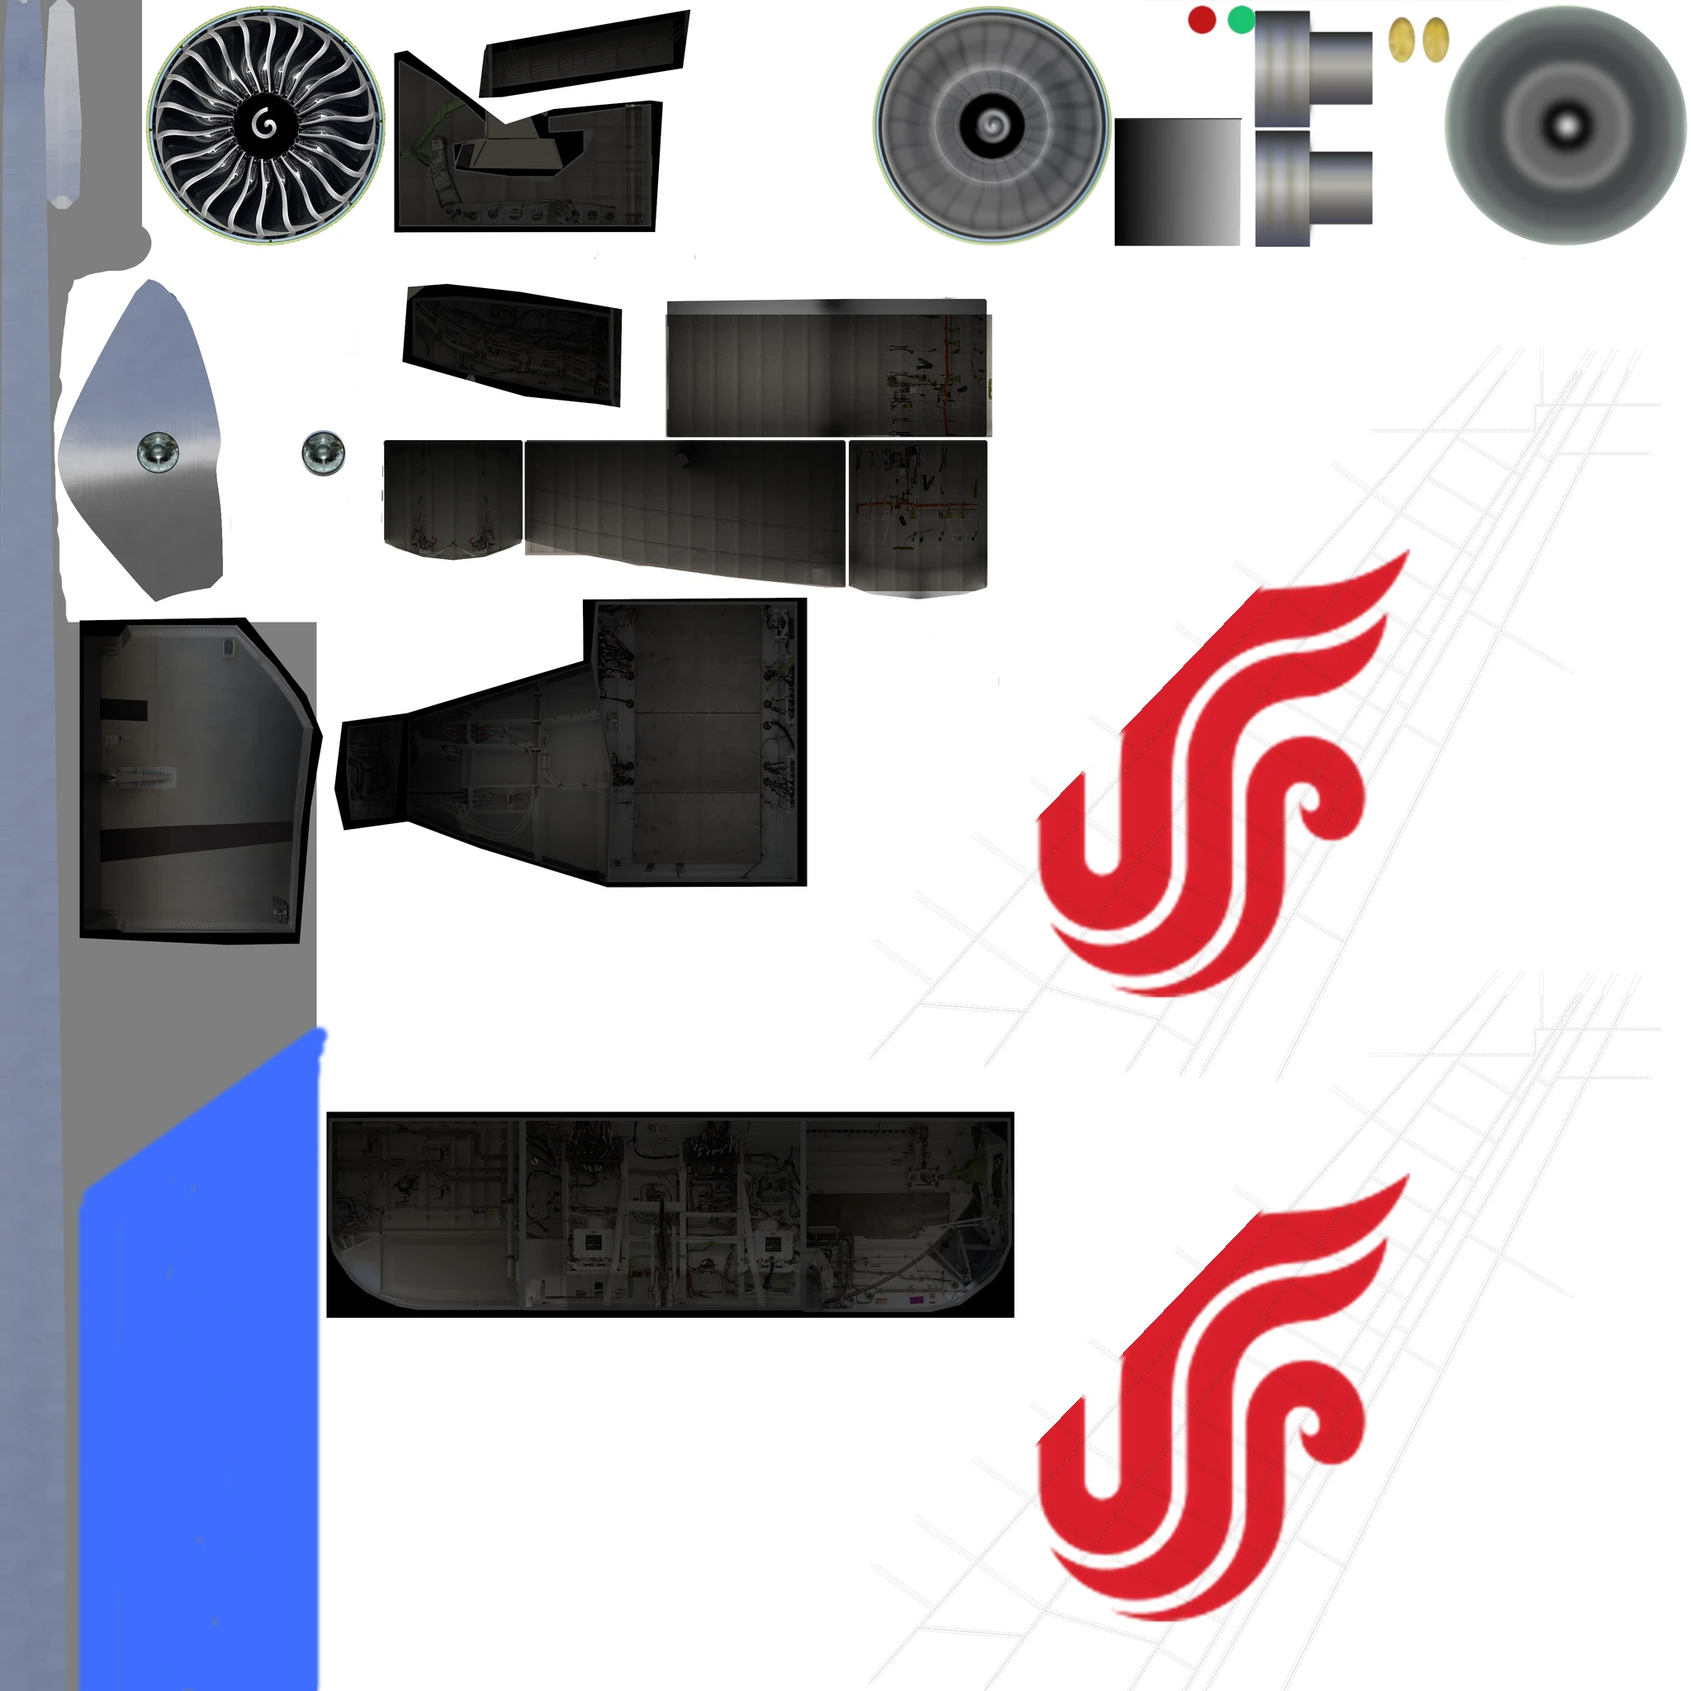
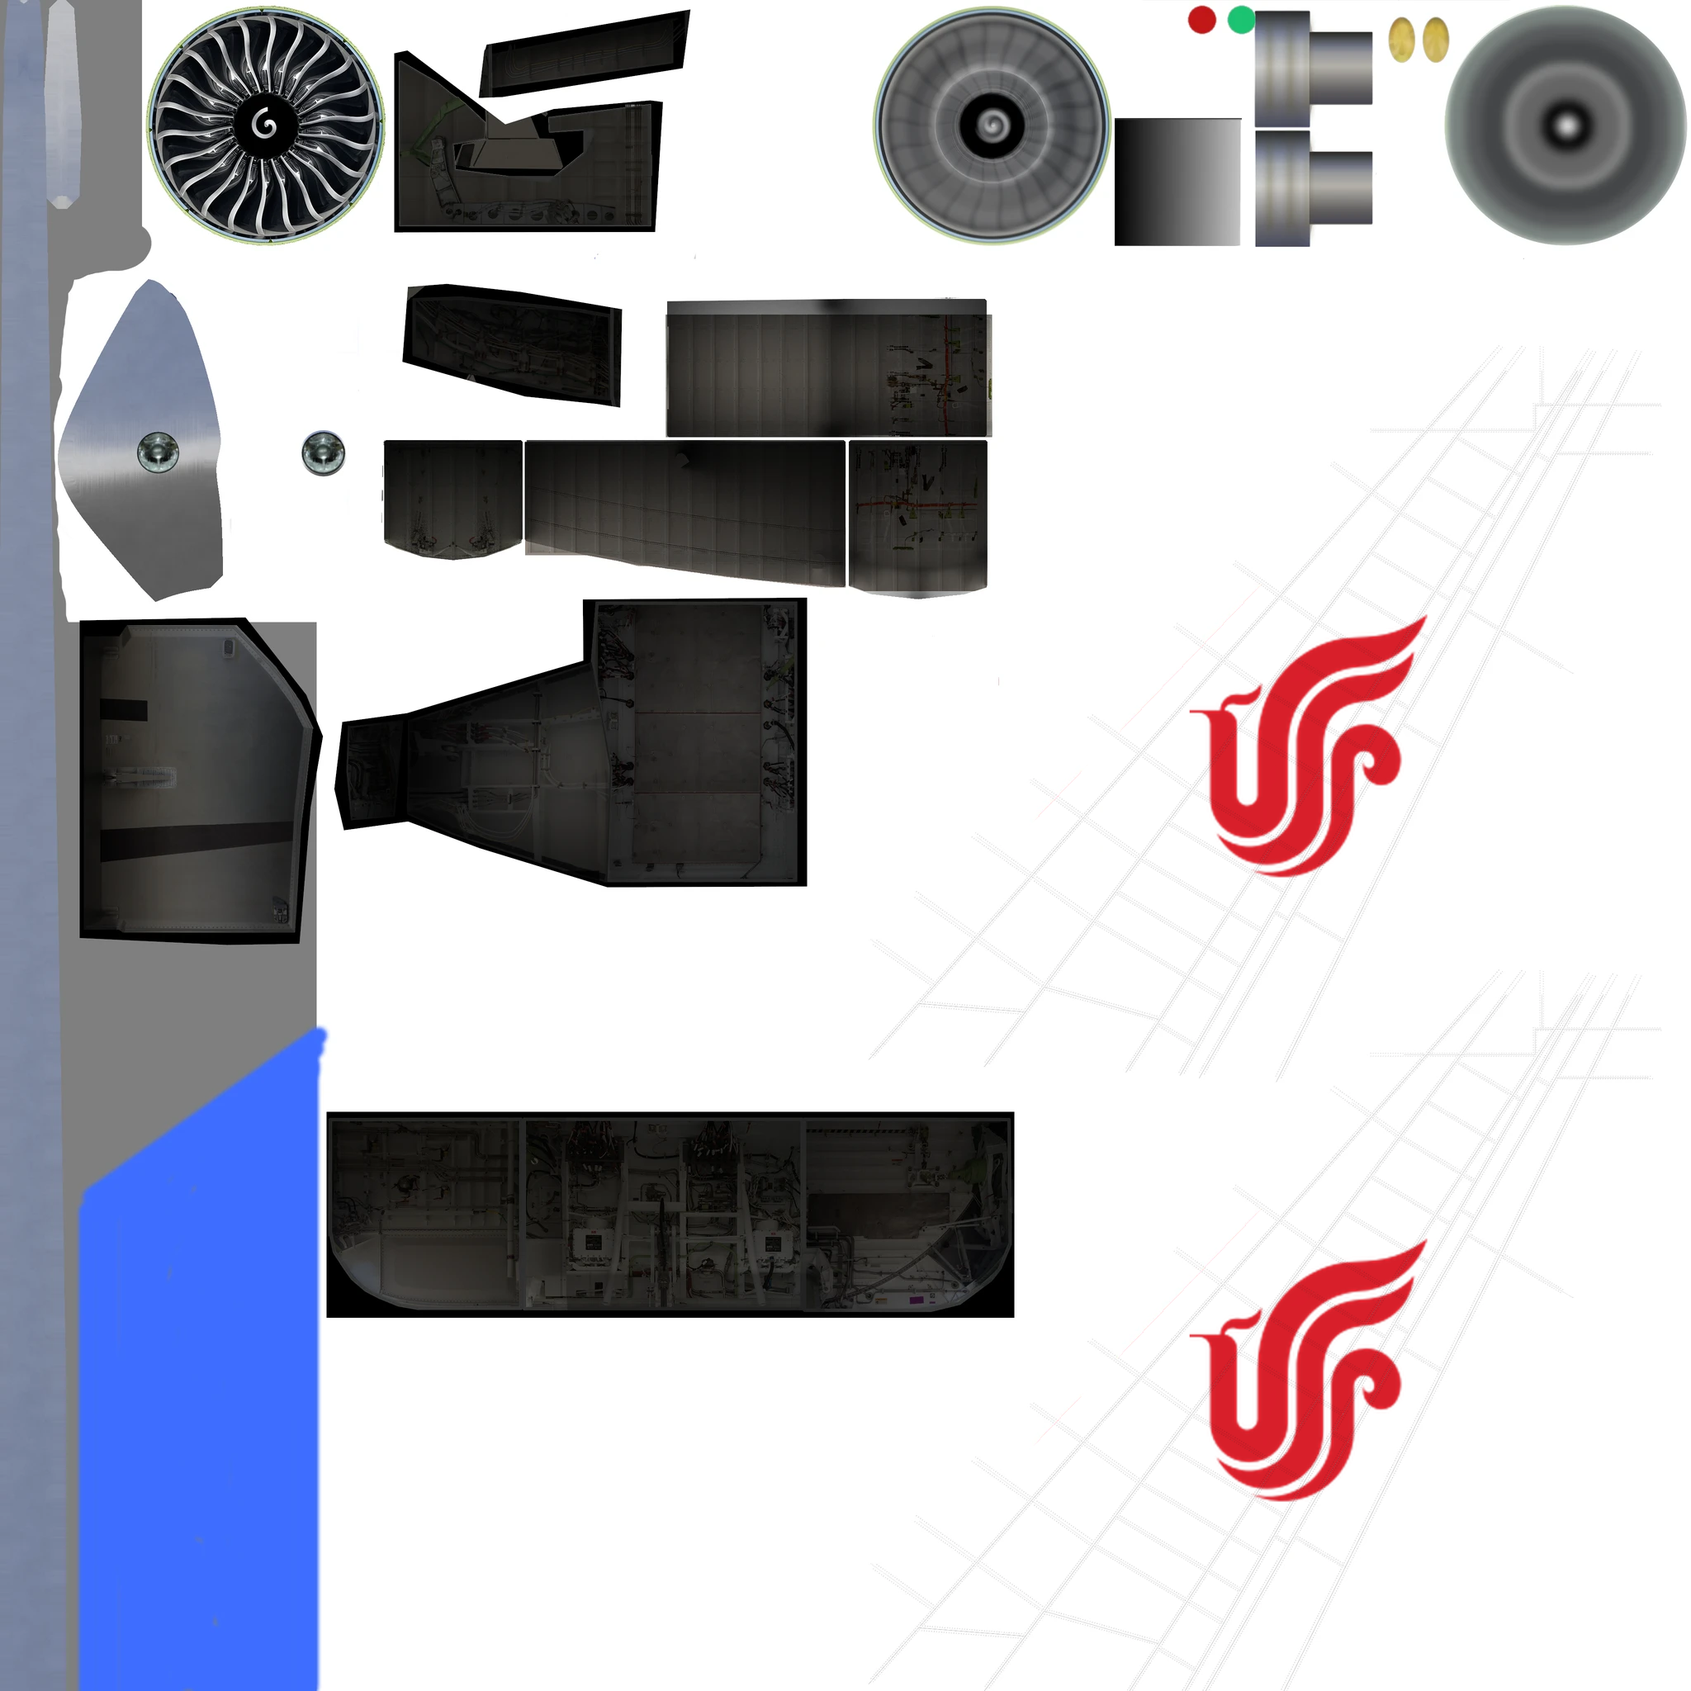
fix: complete the 777 passenger tail livery
Correct the fin outline used by the passenger livery generator so the 777 wordmark is no longer clipped at the leading edge. Only the fin texture changes; other atlas pixels are unchanged.

Agent: Pi Agent

Model: gpt-6-luna (github-copilot)

Changed region(s): [[0.5938, 0.6875, 0.8438, 0.9688], [0.5938, 0.3125, 0.8438, 0.5938]]

diff --git a/tests/b777-fin-coverage.py b/tests/b777-fin-coverage.py
@@ -1,0 +1,96 @@
+#!/usr/bin/env python3
+"""CPU fin regression against the pinned uncompressed 200LR geometry.
+
+    git show db2577a:assets/accurate-b777/777-200LR-2048.candidate.glb > /tmp/777-pax.glb
+    B777_GLB_PAX=/tmp/777-pax.glb python3 tests/b777-fin-coverage.py
+    B777_GLB_PAX=/tmp/777-pax.glb node tests/b777-fin-model.mjs
+
+The second command checks the shipped meshopt model against this source.
+Requires numpy, OpenCV, Pillow, and @resvg/resvg-js. Text depends on fonts.
+"""
+import hashlib
+import shutil
+import tempfile
+from pathlib import Path
+
+import cv2
+import numpy as np
+from PIL import Image
+import b777_livery_build as build
+from b777_livery_lib import GLB, load_prims, load_rgb, paint, raster_positions
+
[1 lines of base64/hex data omitted]
+assert hashlib.sha256(GLB['pax'].read_bytes()).hexdigest() == EXPECTED, 'Use the pinned uncompressed 200LR GLB'
+prims = load_prims('pax')
+spec = build.sources('pax')['fin']
+pos, mask = raster_positions(prims, spec['source'], spec['n'], include=build.FIN_PARTS, tag='pax')
+_, other = raster_positions(prims, spec['source'], spec['n'], exclude=build.FIN_PARTS, tag='pax')
+assert set(p['name'] for p in prims if p['name'] in build.FIN_PARTS and p['src'] == spec['source']) == build.FIN_PARTS
+assert not np.any((mask > 0) & (other > 0)), 'Fin bleed overlaps another atlas user'
+
+# Rasterise the actual 3D triangles in a side-view canvas, not the assumed
+# trapezium. Separately test each emblem/text/disc: a union would hide clipping
+# when two marks overlap. Rectangles and flag stripes intentionally extend past
+# the silhouette, so their coverage is checked against the atlas below instead.
+hulls = {}
+for side in ('port', 'stbd'):
+    s = build.art.FIN
+    c = build.art.Canvas(s, side)
+    hull = np.zeros((round(c.h*s['ppm']), round(c.w*s['ppm'])), np.uint8)
+    for p in prims:
+        if p['name'] not in build.FIN_PARTS or p['src'] != spec['source']:
+            continue
+        xyz = p['pos']
+        xy = np.stack([((xyz[:, 0] if side == 'port' else -xyz[:, 0])-c.U0)*s['ppm'],
+                       (s['ytop']-xyz[:, 1])*s['ppm']], axis=1)
+        for tri in xy[p['idx']]:
+            cv2.fillConvexPoly(hull, np.rint(tri).astype(np.int32), 255)
+    assert np.count_nonzero(hull) > 100000
+    hulls[side] = hull > 0
+
+base = load_rgb(spec['base'], spec['n'])
+ids = [ident for ident in build.LIVERIES if ident not in build.CARGO_IDS]
+assert len(ids) == 12
+for ident in ids:
+    canvases = {}
+    for side in ('port', 'stbd'):
+        f = build.art.Canvas(build.art.FIN, side)
+        build.LIVERIES[ident](build.art.Canvas(build.art.BODY, side), f)
+        canvases[side] = build.render(f, build.art.FIN)[0]
+        items = [item for item in f.items if item.startswith(('<image', '<text', '<circle'))]
+        for item in items:
+            isolated = build.art.Canvas(build.art.FIN, side)
+            isolated.items = [item]
+            _, image = build.render(isolated, build.art.FIN)
+            alpha = np.asarray(image)[:, :, 3].astype(np.float64)
+            total = alpha.sum()
+            assert total > 1000, f'{ident} {side}: missing emblem'
+            fraction = float(alpha[hulls[side]].sum()/total)
+            assert fraction >= .995, f'{ident} {side}: emblem clipped, only {fraction:.3%} on fin'
+    expected = np.clip(paint(base, pos, mask, canvases['port'], canvases['stbd'])*255+.5, 0, 255).astype(np.uint8)
+    delivered = np.asarray(Image.open(build.OUT/'passenger'/f'{ident}-fin.webp').convert('RGB'))
+    error = np.max(np.abs(delivered.astype(np.int16)-expected.astype(np.int16)), axis=2)
+    for sign, side in ((1, 'port'), (-1, 'stbd')):
+        on = (mask > 0) & (pos[:, :, 2]*sign > 0)
+        assert on.sum() > 200000, f'{ident} {side}: missing UV island'
+        bad = float(np.mean(error[on] > 40))
+        assert bad < .01, f'{ident} {side}: delivered fin differs from artwork on {bad:.2%} of texels'
+    print(f'{ident}: both fin sides and delivered atlas OK')
+
+# Exercise the supported selective generator in a throwaway directory: no pixel
+# outside the fin mask may change, even after WebP encoding.
+with tempfile.TemporaryDirectory() as tmp:
+    saved = build.OUT
+    try:
+        build.OUT = Path(tmp)
+        dest = build.OUT/'passenger'/'BOE-fin.webp'
+        dest.parent.mkdir(parents=True)
+        shutil.copyfile(saved/'passenger'/'BOE-fin.webp', dest)
+        before = np.asarray(Image.open(dest).convert('RGB')).copy()
+        build.build_one('BOE', fin_only=True, prims_cache={'pax': prims})
+        after = np.asarray(Image.open(dest).convert('RGB'))
+        assert np.array_equal(before[mask == 0], after[mask == 0]), 'Non-fin pixels changed'
+        assert np.array_equal(before[other > 0], after[other > 0]), 'Another atlas part changed'
+    finally:
+        build.OUT = saved
+print('777 fin-only regeneration: non-fin pixels unchanged')

diff --git a/tests/b777_livery_build.py b/tests/b777_livery_build.py
@@ -4,6 +4,7 @@
   python tests/b777_livery_build.py preview UAE [BOE ...]   # side-view art + guides -> $B777_PREVIEW (default %TEMP%)
   python tests/b777_livery_build.py build   UAE [BOE ...]   # write assets/b777-liveries/{passenger,cargo}/<ID>-*.webp
   python tests/b777_livery_build.py build all
+  python tests/b777_livery_build.py fin BOE [CCA ...]       # update only fin UVs in existing passenger WebPs, losslessly
 
 Requires Pillow, numpy, opencv-python, Node with @resvg/resvg-js (global install is found automatically).
 Everything is drawn from original vector shapes (see b777_livery_art.py); no photographs are copied.
@@ -52,9 +53,10 @@ def render(c, spec, defs=WHITE_FILTER, guides=None):
     img = render_svg(c.svg(defs), int(round(c.w*spec['ppm'])))
     return SideCanvas(img, c.U0, spec['ytop'], spec['ppm']), img
 
-def build_one(ident, write=True, prims_cache={}):
+def build_one(ident, write=True, prims_cache={}, fin_only=False):
     L = LIVERIES[ident]
     variant = 'cargo' if ident in CARGO_IDS else 'pax'
+    if fin_only and variant != 'pax': raise ValueError('fin-only updates are limited to passenger atlases')
     if variant not in prims_cache: prims_cache[variant] = load_prims(variant)
     prims = prims_cache[variant]
     # draw artwork once per side, for body and fin canvases
@@ -69,20 +71,34 @@ def build_one(ident, write=True, prims_cache={}):
     outdir = OUT/('cargo' if variant == 'cargo' else 'passenger'); outdir.mkdir(parents=True, exist_ok=True)
     produced = []
     for name, spec in sources(variant).items():
-        if name == 'eng':
+        if name == 'eng' or (fin_only and name != 'fin'):
             continue
         n = spec['n']
         pos, mask = raster_positions(prims, spec['source'], n, include=spec.get('include'), tag=variant)
         base = cargo_neutral_body() if spec['base'] == 'cargo-neutral' else load_rgb(spec['base'], n)
         canv = fin_canvas if name == 'fin' else body_canvas
         painted = paint(base, pos, mask, canv['port'], canv['stbd'])
-        if name == 'fin' and not (mask > 0).any(): continue
+        if name == 'fin' and not (mask > 0).any():
+            raise ValueError(f'No fin UVs found for {variant}')
         if write:
-            save_webp(painted, outdir/f'{ident}-{name}.webp', 90 if n >= 2048 else 92)
+            target = outdir/f'{ident}-{name}.webp'
+            if fin_only:
+                # Refuse to overwrite any other part sharing this atlas.
+                _, other = raster_positions(prims, spec['source'], n, exclude=FIN_PARTS, tag=variant)
+                if np.any((mask > 0) & (other > 0)):
+                    raise ValueError('Fin UVs overlap other parts; audit before painting')
+                # Preserve every decoded pixel outside the fin UVs, including
+                # unrelated objects sharing AFR5. Avoid lossy recompression.
+                previous = np.asarray(Image.open(target).convert('RGB')).copy()
+                updated = np.clip(painted*255+.5, 0, 255).astype(np.uint8)
+                previous[mask > 0] = updated[mask > 0]
+                Image.fromarray(previous).save(target, 'WEBP', lossless=True, method=6)
+            else:
+                save_webp(painted, target, 90 if n >= 2048 else 92)
             produced.append(name)
     # engines: simple two-tone nacelle paint (optional)
     eng = extras.get('engine')
-    if eng:
+    if eng and not fin_only:
         spec = sources(variant)['eng']; n = spec['n']
         pos, mask = raster_positions(prims, spec['source'], n, tag=variant)
         base = load_rgb(spec['base'], n)
@@ -142,7 +158,8 @@ def preview(ident):
 
 if __name__ == '__main__':
     cmd, ids = sys.argv[1], sys.argv[2:]
-    if ids == ['all']: ids = list(LIVERIES)
+    if ids == ['all']: ids = [i for i in LIVERIES if cmd != 'fin' or i not in CARGO_IDS]
     for i in ids:
         if cmd == 'preview': preview(i)
-        else: print(i, build_one(i))
+        elif cmd in ('build', 'fin'): print(i, build_one(i, fin_only=(cmd == 'fin')))
+        else: raise SystemExit('Expected preview, build, or fin')

diff --git a/tests/b777_liveries_more.py b/tests/b777_liveries_more.py
@@ -18,7 +18,7 @@ def cca(body, fin):
     body.text(-12.0, .95, 'AIR CHINA', 1.25, RED, weight='bold', length=7.2)
     body.text(-2.2, .95, '中国国际航空公司', 1.0, RED, family='Microsoft YaHei', weight='bold')
     fin.rect_all(WHITE)
-    fin.logo('air-china.png', 31.2, 6.6, 8.2)
+    fin.logo('air-china.png', fin_pt(.5, 7.0)[0], 7.0, 4.8)
     return dict(engine=dict(base='#ffffff'))
 
 def cea(body, fin):
@@ -28,7 +28,7 @@ def cea(body, fin):
     body.text(-12.4, .95, 'CHINA EASTERN', 1.15, BLUE, weight='bold', length=8.0)
     body.text(-4.9, .95, '中国东方航空', 1.0, RED, family='Microsoft YaHei', weight='bold')
     fin.rect_all(WHITE)
-    fin.logo('china-eastern.png', 31.0, 6.4, 9.0)
+    fin.logo('china-eastern.png', fin_pt(.5, 7.0)[0], 7.0, 4.8)
     return dict(engine=dict(base='#ffffff'))
 
 def csn(body, fin):
@@ -53,7 +53,7 @@ def chh(body, fin):
     body.text(-12.0, 1.0, 'Hainan Airlines', 1.15, '#333b4a', weight='bold', length=7.6)
     body.text(-4.4, 1.0, '海南航空', 1.0, '#333b4a', family='Microsoft YaHei', weight='bold')
     fin.rect_all(RED)
-    fin.logo('hainan.png', 31.2, 6.4, 8.4, tint='gold')
+    fin.logo('hainan.png', fin_pt(.5, 7.0)[0], 7.0, 4.8, tint='gold')
     return dict(engine=dict(base='#ffffff'))
 
 def klm(body, fin):
@@ -63,7 +63,7 @@ def klm(body, fin):
     body.poly(band(-25.4, 37.8, _edge([-25.4, -20, -8, 20, 30, 37.8], [-.2, -.15, -.12, -.1, .0, .3]), 1.2), BLUE)
     body.text(-9.4, 1.35, 'KLM Royal Dutch Airlines', .8, '#ffffff', weight='bold', length=9.5)
     fin.rect_all(BLUE)
-    fin.logo('klm.png', 31.0, 6.8, 6.6, mirror=False, tint='white')
+    fin.logo('klm.png', fin_pt(.5, 7.0)[0], 7.0, 4.8, mirror=False, tint='white')
     return dict(engine=dict(base='#ffffff'))
 
 def dlh(body, fin):
@@ -74,9 +74,9 @@ def dlh(body, fin):
     _stripe(body, -.07, -.01, NAVY, -23, 36)
     body.text(-10.8, 1.0, 'Lufthansa', 1.9, NAVY, family='Arial', weight='bold', length=9.6)
     fin.rect_all(NAVY)
-    cx = fin_pt(.45, 6.7)[0]
-    fin.circle((cx, 6.7), 2.55, YELLOW)
-    fin.logo('lufthansa.png', cx, 6.7, 5.0, mirror=False)
+    cx = fin_pt(.6, 6.7)[0]
+    fin.circle((cx, 6.7), 2.2, YELLOW)
+    fin.logo('lufthansa.png', cx, 6.7, 4.4, mirror=False)
     return dict(engine=dict(base='#ffffff'))
 
 def dlh100(body, fin):
@@ -87,9 +87,9 @@ def dlh100(body, fin):
     body.text(-10.6, -.9, 'Lufthansa', 1.9, '#ffffff', weight='bold', length=9.6)
     body.text(6.0, -.8, '1926 – 2026', 1.0, GOLD, weight='bold')
     fin.rect_all(NAVY)
-    cx = fin_pt(.45, 6.3)[0]
-    fin.logo('lufthansa.png', cx, 6.3, 5.4, mirror=False, tint='white')
-    fin.text(fin_pt(.5, 9.4)[0], 9.4, '100', 1.5, GOLD, weight='bold')
+    cx = fin_pt(.6, 6.3)[0]
+    fin.logo('lufthansa.png', cx, 6.3, 4.4, mirror=False, tint='white')
+    fin.text(fin_pt(.6, 9.4)[0], 9.4, '100', 1.2, GOLD, weight='bold')
     return dict(engine=dict(base='#ffffff', lower=NAVY, split=-.2))
 
 def af1c(body, fin):
@@ -102,7 +102,7 @@ def af1c(body, fin):
     fin.rect_all(WHITE)
     # VC-25A style: a large flag across most of the upper fin chord, tail number below.
     # The flag is mirrored on the starboard side so the union always leads (US aircraft convention).
-    fin.logo('us-flag.png', fin_pt(.58, 9.6)[0], 9.6, 4.2)
+    fin.logo('us-flag.png', fin_pt(.5, 9.2)[0], 9.2, 3.2)
     fin.text(fin_pt(.55, 7.3)[0], 7.3, '28000', .9, NAVY, weight='bold')
     return dict(engine=dict(base='#79b4de'))
 
@@ -115,7 +115,7 @@ def af1n(body, fin):
     body.poly(band(-25.4, 37.8, edge, lambda x: edge(x)+.07), RED)
     body.text(-8.0, 1.0, 'UNITED STATES OF AMERICA', 1.0, NAVY, family='Georgia', weight='bold', length=14.5)
     fin.rect_all(NAVY)
-    fin.logo('us-flag.png', fin_pt(.5, 8.0)[0], 8.0, 6.0)
+    fin.logo('us-flag.png', fin_pt(.55, 7.3)[0], 7.3, 4.2)
     return dict(engine=dict(base='#ffffff', lower=NAVY, split=-.1))
 
 def fedex(body, fin):

diff --git a/tests/b777_livery_lib.py b/tests/b777_livery_lib.py
@@ -12,7 +12,8 @@ from PIL import Image
 
 ROOT = Path(__file__).resolve().parents[1]
 # The shipped GLBs are meshopt-compressed, which this reader cannot decode. Point
-# B777_GLB_PAX / B777_GLB_CARGO at the uncompressed originals (same UVs), e.g.
+# B777_GLB_PAX / B777_GLB_CARGO at the uncompressed originals (UVs differ
+# only by meshopt quantization; see tests/b777-fin-model.mjs), e.g.
 #   git show db2577a:assets/accurate-b777/777-200LR-2048.candidate.glb > %TEMP%/777-pax.glb
 GLB = {
  'pax': Path(os.environ.get('B777_GLB_PAX', ROOT/'assets/accurate-b777/777-200LR-2048.candidate.glb')),
@@ -44,6 +45,8 @@ def load_prims(variant):
     data = GLB[variant].read_bytes()
     size = struct.unpack_from('<I', data, 12)[0]
     gltf = json.loads(data[20:20+size])
+    if 'EXT_meshopt_compression' in gltf.get('extensionsRequired', []):
+        raise ValueError(f'{GLB[variant]} is meshopt-compressed; set B777_GLB_{variant.upper()} to an uncompressed original')
     base = 20+size+8
 
     def access(i):
@@ -78,8 +81,14 @@ def load_prims(variant):
 
 def raster_positions(prims, source, n, include=None, exclude=None, bleed_px=5, tag=''):
     """Map every covered texel of atlas `source` to its 3D hull position (cached)."""
-    ident = repr((source, n, sorted(include or []), sorted(exclude or []), len(prims), sum(len(p['idx']) for p in prims), tag))
-    key = CACHE/(hashlib.sha1(ident.encode()).hexdigest()[:16]+'.npz')
+    ident = repr((source, n, sorted(include or []), sorted(exclude or []), bleed_px, tag))
+    digest = hashlib.sha256(ident.encode())
+    for p in prims:
+        if p['src'] != source or (include and p['name'] not in include) or (exclude and p['name'] in exclude):
+            continue
+        digest.update(p['name'].encode()+b'\0')
+        for field in ('pos', 'uv', 'idx'): digest.update(p[field].tobytes())
+    key = CACHE/(digest.hexdigest()[:16]+'.npz')
     if key.exists():
         z = np.load(key)
         return z['pos'], z['mask']

diff --git a/tests/b777_livery_art.py b/tests/b777_livery_art.py
@@ -22,9 +22,11 @@ def yc(x): return float(np.interp(x, _X, _YC))
 def rad(x): return float(np.interp(x, _X, _R))
 def fz(x, rel): return yc(x)+rel*rad(x)           # rel -1 keel .. 0 axis .. +1 crown
 
-# fin planform (x of leading/trailing edge by height)
-def fin_le(y): return 24.4+(y-2.5)*(34.6-24.4)/(12.36-2.5)
-def fin_te(y): return 38.0-(y-2.4)*(38.0-37.75)/(12.36-2.4)
+# Lateral fin silhouette measured from the 200LR Tail/Rudder UV triangles in
+# world metres (above the root fairing). The trailing edge sweeps aft too;
+# treating it as x~=38 at every height places logos beyond the leading edge.
+def fin_le(y): return 26.32+(y-3.5)*.965
+def fin_te(y): return 34.31+(y-3.5)*.388
 def fin_pt(fx, y): return (fin_le(y)+fx*(fin_te(y)-fin_le(y)), y)
 
 # body canvas / fin canvas definitions (consumed by the baker)

diff --git a/tests/b777_liveries.py b/tests/b777_liveries.py
@@ -54,9 +54,7 @@ def boe(body, fin):
     # fin: bright blue with white 777
     fin.rect_all(BLUE)
     fin.poly([(24.0, 2.0), (38.5, 2.0), (38.5, 3.2), (24.0, 3.2)], NAVY, opacity=.0)
-    for i, (x, y) in enumerate([(30.0, 10.0), (30.5, 7.8), (31.5, 5.6)]):
-        pass
-    fin.text(30.6, 6.2, '777', 2.5, '#ffffff', family='Arial Black', weight='900', style='italic')
+    fin.text(fin_pt(.56, 6.8)[0], 6.8, '777', 1.7, '#ffffff', family='Arial Black', weight='900', style='italic')
     return dict(engine=dict(base='#ffffff', lower=NAVY, split=-.15))
 
 def baw(body, fin):
